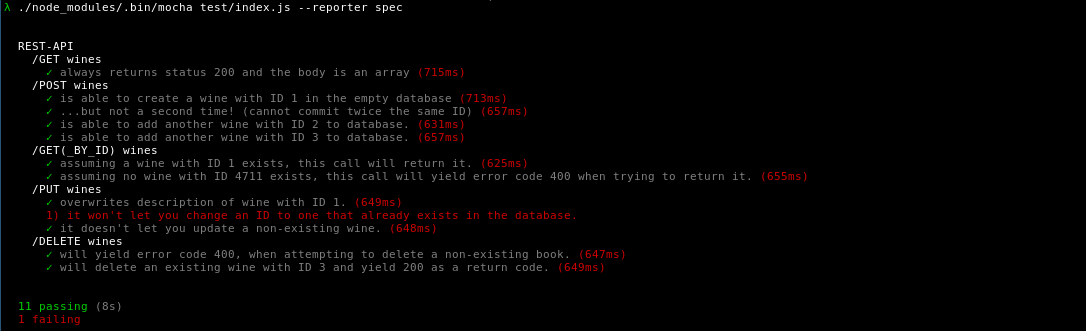
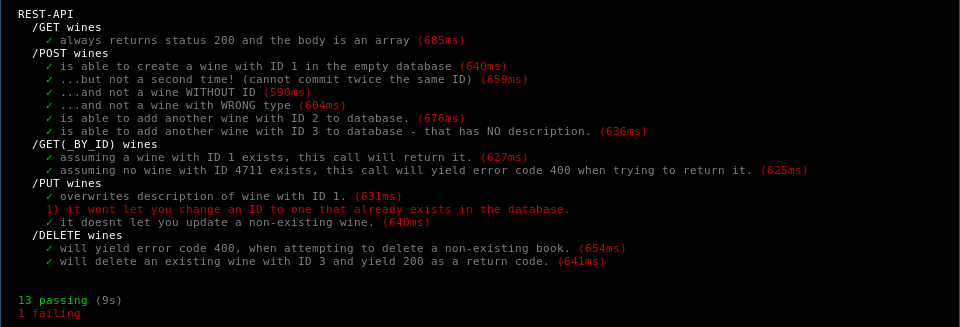
Add more test cases.

Changed region(s): [[0.0, 0.0, 0.75, 0.8257], [0.0, 0.8869, 0.125, 0.9786], [0.7812, 0.4893, 0.8438, 0.5505]]

diff --git a/test/post.js b/test/post.js
@@ -34,6 +34,43 @@ describe('/POST wines', () => {
       });
   });
 
+  it('...and not a wine WITHOUT ID', (done) => {
+    const wineWithoutId = {
+      name: 'House white',
+      year: 1965,
+      country: 'Brasil',
+      type: 'white',
+      description: 'Similar to merlot',
+    };
+
+    chai.request(url)
+      .post('/wines')
+      .send(wineWithoutId)
+      .end((err, res) => {
+        res.should.have.status(400);
+        done();
+      });
+  });
+
+  it('...and not a wine with WRONG type', (done) => {
+    const wineWithoutId = {
+      id: 4711,
+      name: 'House white',
+      year: 1965,
+      country: 'Brasil',
+      type: 'radler',
+      description: 'Similar to merlot',
+    };
+
+    chai.request(url)
+      .post('/wines')
+      .send(wineWithoutId)
+      .end((err, res) => {
+        res.should.have.status(400);
+        done();
+      });
+  });
+
   it('is able to add another wine with ID 2 to database.', (done) => {
     wine.id = 2;
     chai.request(url)
@@ -45,11 +82,18 @@ describe('/POST wines', () => {
       });
   });
 
-  it('is able to add another wine with ID 3 to database.', (done) => {
-    wine.id = 3;
+  it('is able to add another wine with ID 3 to database - that has NO description.', (done) => {
+    const wineWithoutDescription = {
+      id: 3,
+      name: 'House white',
+      year: 1965,
+      country: 'Brasil',
+      type: 'white',
+    };
+
     chai.request(url)
       .post('/wines')
-      .send(wine)
+      .send(wineWithoutDescription)
       .end((err, res) => {
         res.should.have.status(200);
         done();
